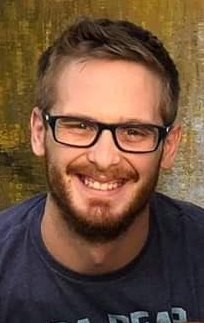
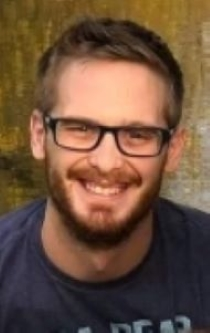
@media Complete

diff --git a/assets/css/style.css b/assets/css/style.css
@@ -1,14 +1,17 @@
+/* Variable for color */
 :root {
     --blue: #92c5de;
 
 }
 
+/* Overall setup */
 * {
     margin: 0;
     padding: 0;
     box-sizing: border-box;
 }
 
+/* Header Portion */
 header {
 padding: 15px 35px;
 background-color: #61646FFF;
@@ -53,6 +56,7 @@ header nav ul li a {
     text-shadow: 0 0 10px rgba(0, 0, 0, 0.5);
 }
 
+/* Hero Section */
 .hero {
     background-image: url("../images/wood.jpg");
     background-size: 500px;
@@ -117,6 +121,11 @@ header nav ul li a {
     border-radius: 15px;
     display: flex;
     text-align: left;
+}
+
+.profile-img {
+    width: 60%;
+    height: 78%;
 }
 
 .contact a {
@@ -241,3 +250,88 @@ text-align: center;
 footer h2 {
     color: var(--blue);
 }
+
+     /* MEDIA QUERY FOR SMALLER DESKTOP SCREENS AND SMALLER */
+     @media screen and (max-width: 980px) {
+        header {
+            padding-bottom: 0;
+            justify-content: center;
+            position: relative;
+        }
+
+        header h1 {
+            width: 100%;
+            text-align: center;
+        }
+
+        header nav ul {
+            margin-top: 20px;
+            width: 100%;
+
+        }
+
+        header nav ul li a {
+            font-size: 20px;
+            justify-content: right;
+        }
+
+
+        footer h2 {
+            text-align: center;
+            width: 100%;
+        }
+
+        .hero {
+            width: 100%;
+            text-align: center;
+        }
+
+        .section-title {
+            width: 80%;
+        }
+
+        .examples, .Run-Buddy, .flex-2, .flex-3 {
+            flex: 0 70%;
+        }
+
+        .text-box {
+            font-size: 10px;
+        }
+
+     }
+
+     /* MEDIA QUERY FOR TABLETS AND SMALLER */
+     @media screen and (max-width: 768px) {
+        section {
+            padding: 30px 15px;
+        }
+
+        .img {
+            flex: 0 32%;
+            margin-right: 0;
+            margin-top: 15px;
+            margin-bottom: 15px;
+        }
+
+     }
+
+     /* MEDIA QUERY FOR MOBILE PHONES AND SMALLER */
+     @media screen and (max-width: 575px) {
+
+        .section-title {
+            width: 95%;
+        }
+
+        .me p {
+            width: 100%;
+        }
+
+        .examples, .Run-Buddy, .flex-2, .flex-3 {
+            flex: 0 100%;
+        }
+
+        .contact{
+            text-align: center;
+        }
+
+     }

diff --git a/index.html b/index.html
@@ -58,7 +58,7 @@
                 amount of time. Having a decent understanding of HTML, CSS, and JAVA, things are starting to fall together
                 and make sense. As far as what I want to pursue further down the line, not 100% sure. As we learn about new
                 coding applications, I will start to get a feel on the avenue I want to pursue and shift my learning in that 
-                direction. Whether I end up making website or designing mobile applications, time will tell.
+                direction. Whether I end up making websites or designing mobile applications, time will tell.
             </p>
             </div>
         </section>
